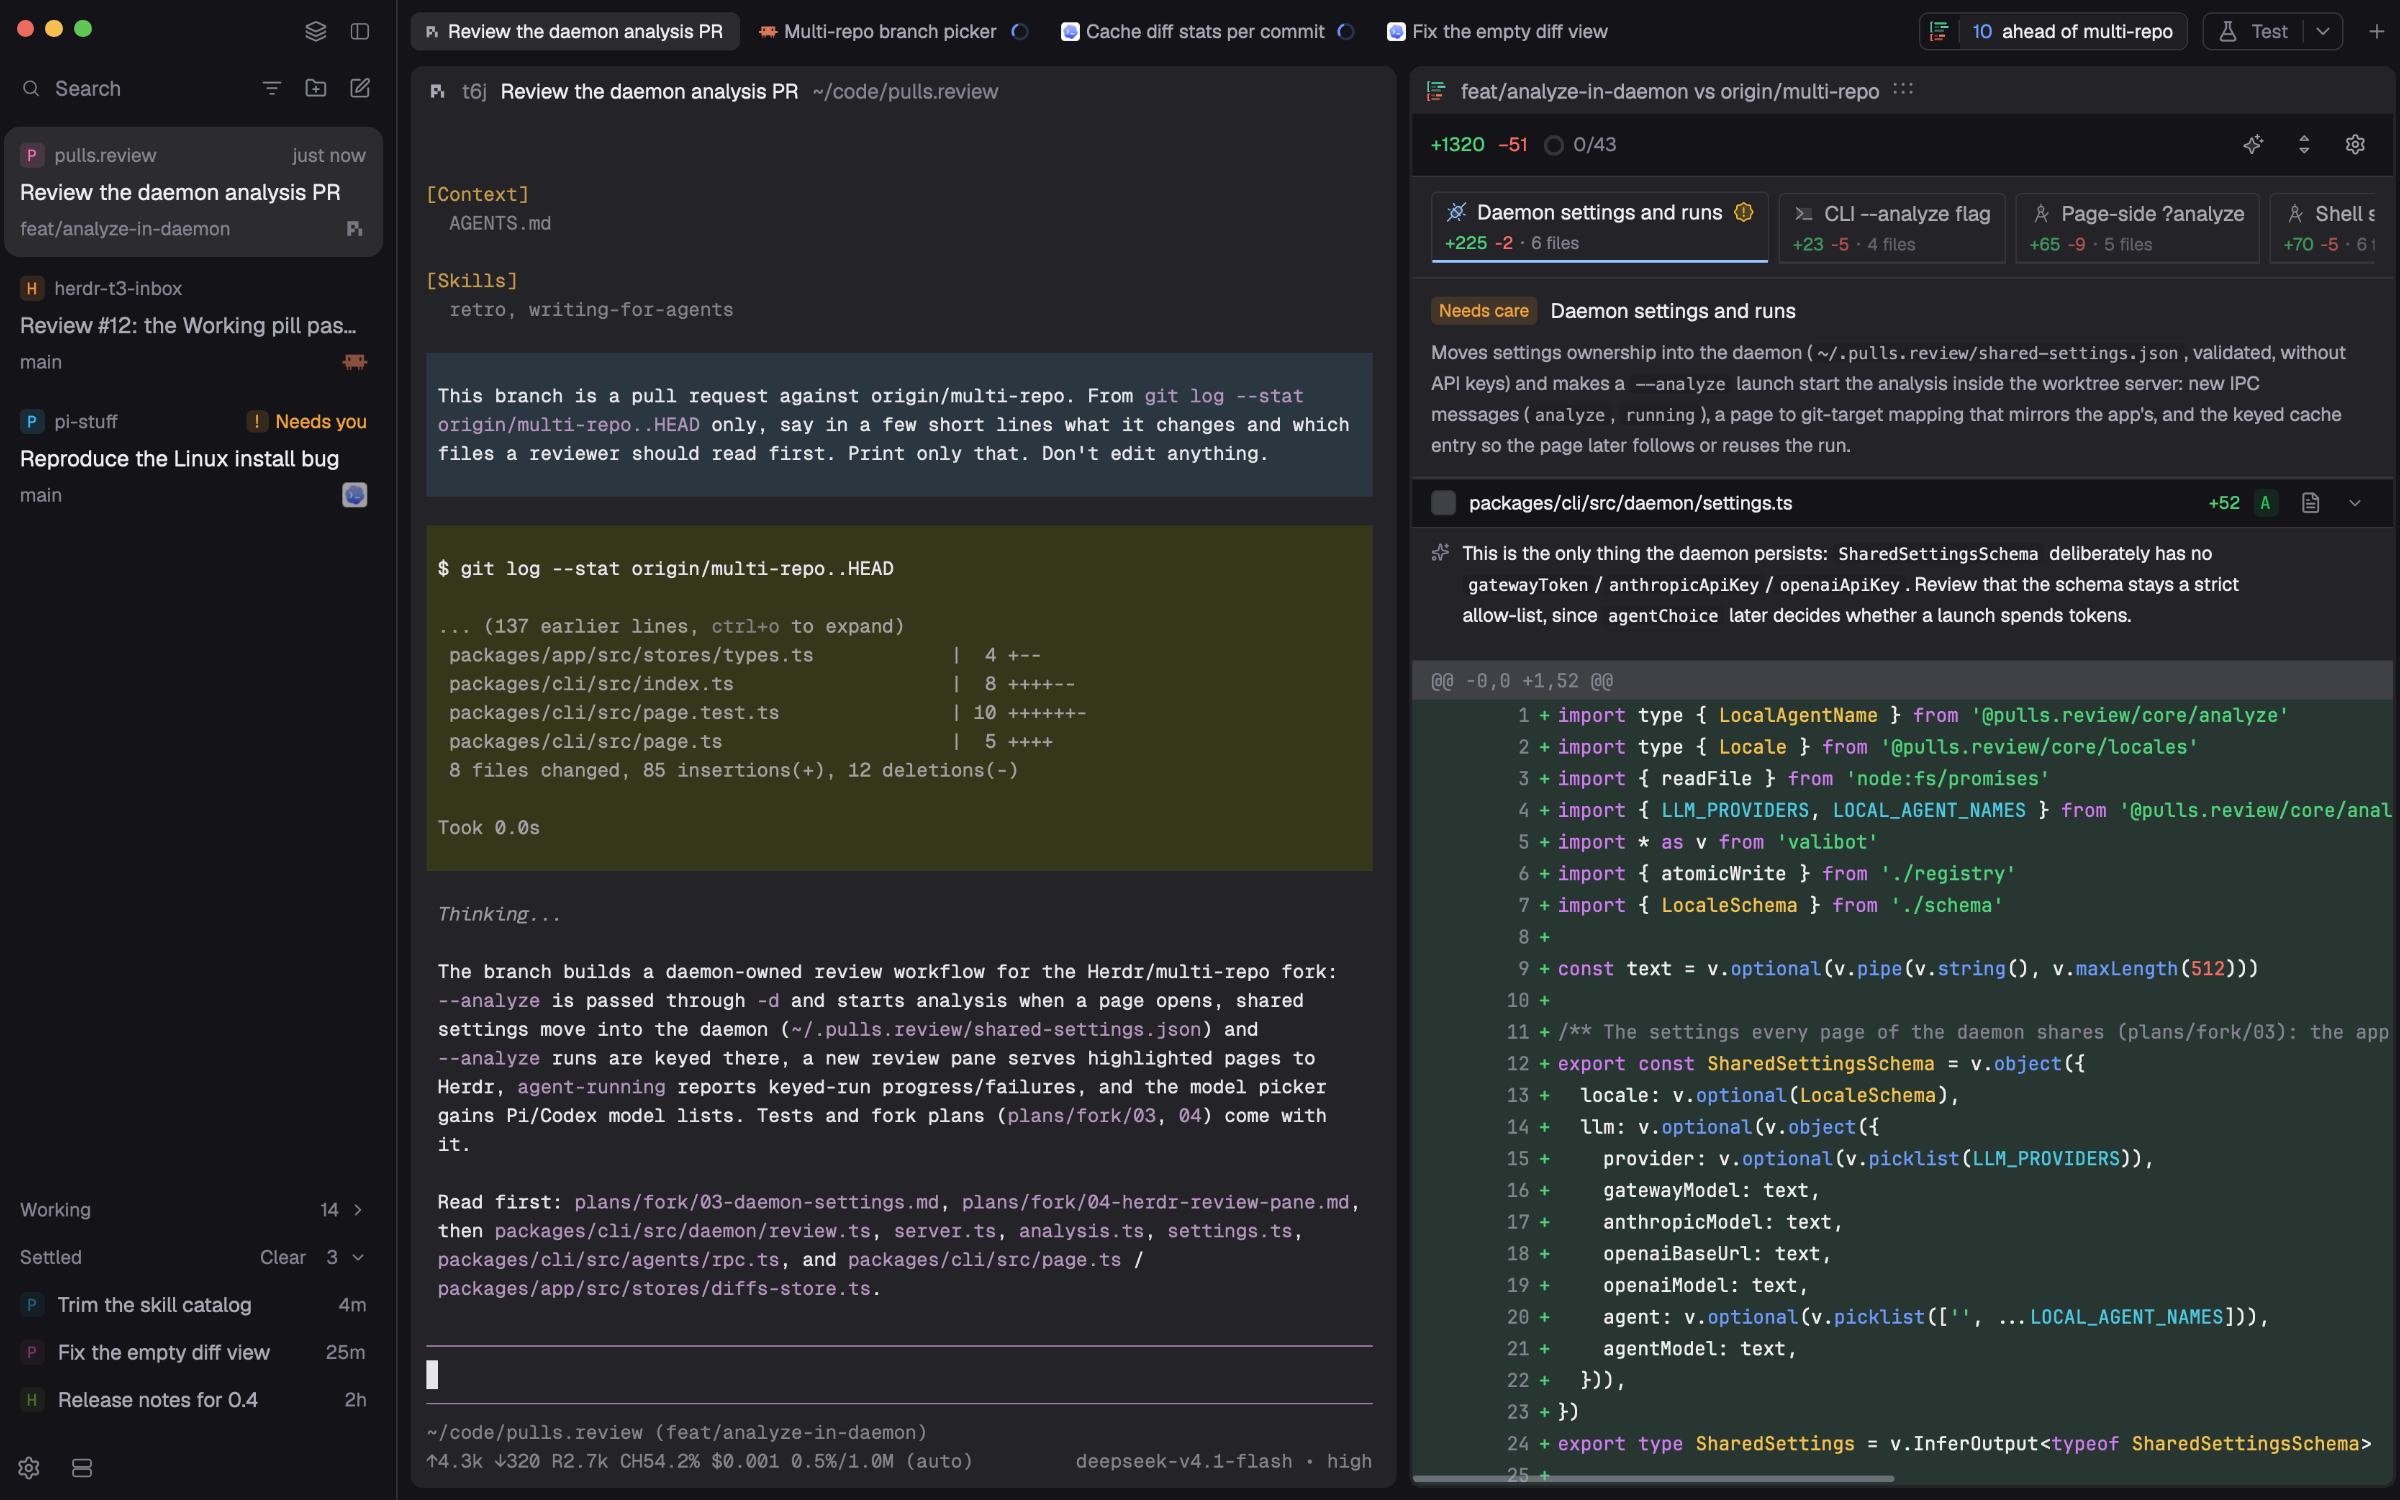
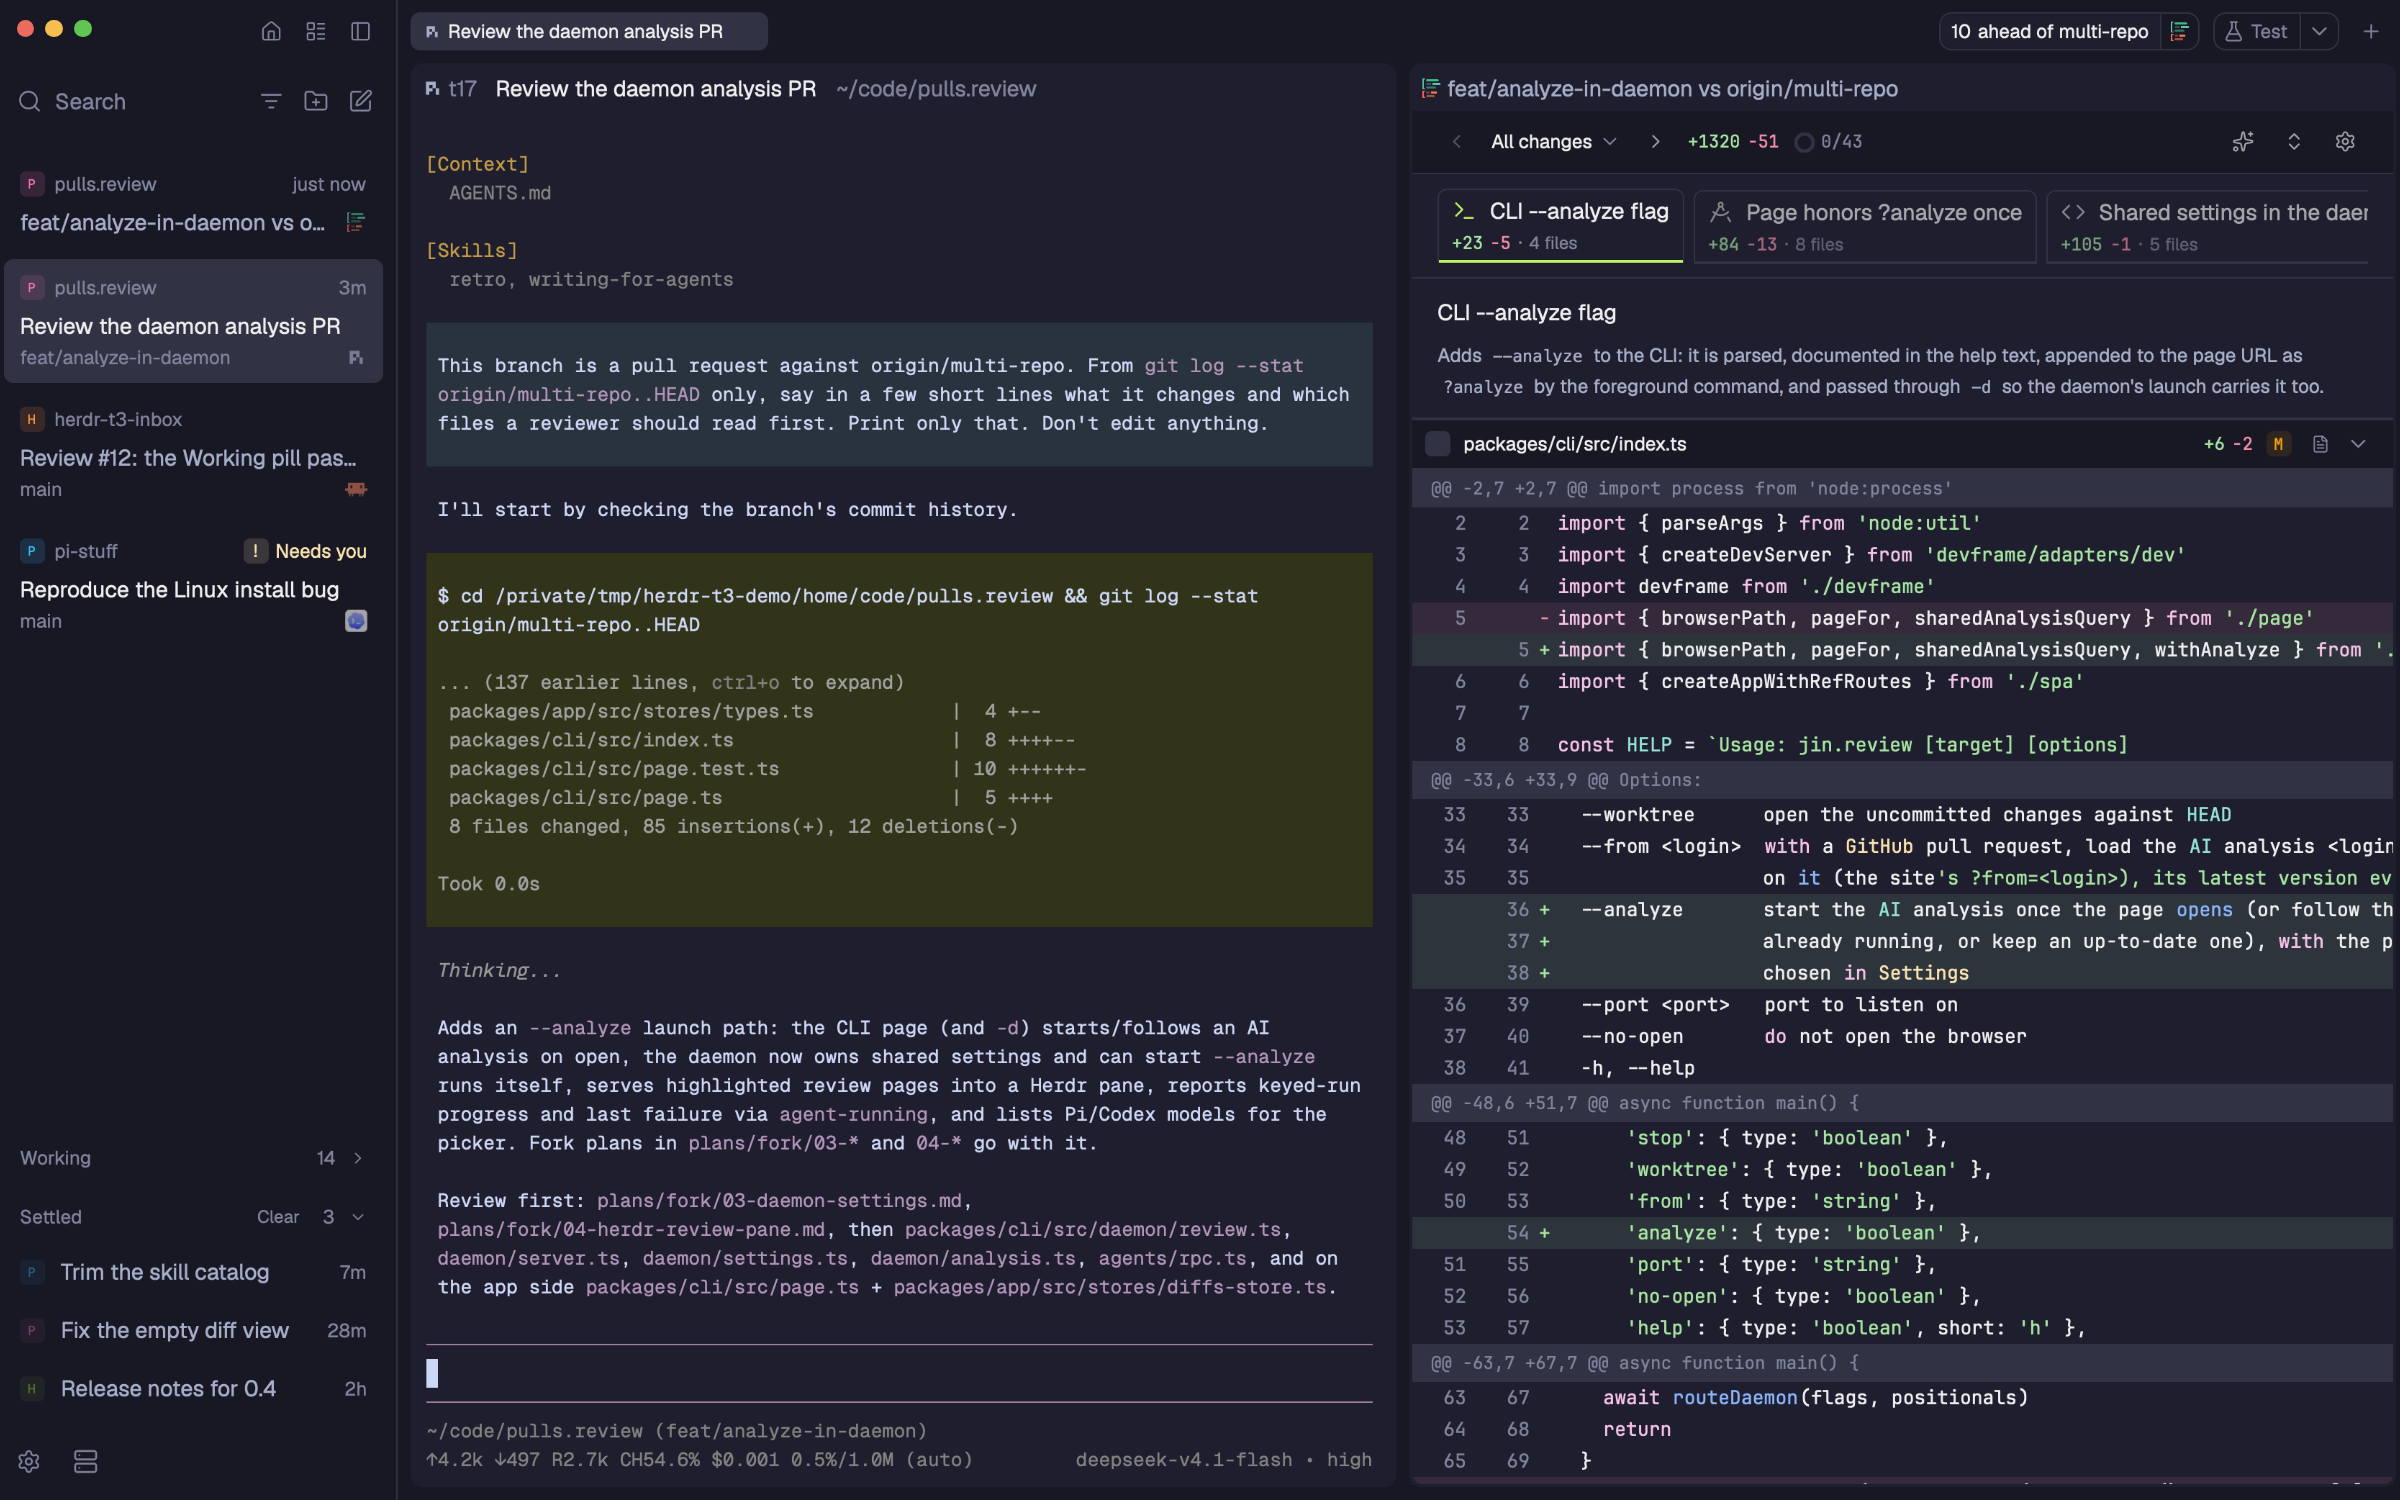
docs: the cover retaken with the layout as T3 draws it
The demo's scripts follow the split: repos.sh patches took() in row-view.js, and the posters' crops and grounds fit the new shots (catppuccin mocha's mantle, the Review pane's unified diff with a group's summary).

diff --git a/scripts/demo/poster.html b/scripts/demo/poster.html
@@ -52,8 +52,8 @@ const posters = {
   inbox() {
     accent("#f0a33a", "#6b93ff", "76%", "34%");
     // Without the title bar's row: a shot has no window buttons, and the toggle would float beside the room they leave.
-    const s = 0.8, left = 690, top = 60, w = 566 * s, h = 630, head = 82, card = 370, foot = 1902, bottom = 90;
-    const side = shot("inbox.png", { w: 566, h: h / s, left, top, cssW: w, cls: "lift", style: "background: #141418;" });
+    const s = 0.8, left = 690, top = 60, w = 566 * s, h = 630, head = 92, card = 410, foot = 1880, bottom = 90;
+    const side = shot("inbox.png", { w: 566, h: h / s, left, top, cssW: w, cls: "lift", style: "background: #181825;" });
     side.style.backgroundImage = "none"; side.style.overflow = "hidden";
     const piece = (y, ph, t) => { const p = document.createElement("div"); p.style.cssText = "position:absolute;left:0;top:" + t + "px;width:" + w + "px;height:" + ph * s + "px;background:url(../inbox.png) 0 " + -y * s + "px / " + W * s + "px " + H * s + "px no-repeat;"; side.append(p); };
     piece(head, card - head, 0);
@@ -65,8 +65,8 @@ const posters = {
   actions() {
     accent("#4fd17a", "#6b93ff", "70%", "30%");
     // The window with the run's tool output cut out of its pane, so it opens on the findings.
-    const s = 1200 / W, top = 300, from = 640, gap = from - 165, cut = 1745, skip = 1830 - 1745;
-    const win = shot("actions.png", { w: W, h: 1400, left: 60, top, cssW: 1200, style: "background: #1d1d22;" });
+    const s = 1200 / W, top = 300, from = 950, gap = from - 165, cut = H, skip = 0;
+    const win = shot("actions.png", { w: W, h: 1400, left: 60, top, cssW: 1200, style: "background: #1e1e2e;" });
     win.style.backgroundImage = "none";
     const piece = (x, y, w, h, l, t) => { const p = document.createElement("div"); p.style.cssText = "position:absolute;left:" + l * s + "px;top:" + t * s + "px;width:" + w * s + "px;height:" + h * s + "px;background:url(../actions.png) " + -x * s + "px " + -y * s + "px / " + W * s + "px " + H * s + "px no-repeat;"; win.append(p); };
     piece(0, 0, W, 165, 0, 0);
@@ -77,17 +77,17 @@ const posters = {
     // The window's buttons, which a shot leaves out.
     ["#ed6a5e", "#f5bf4f", "#61c554"].forEach((c, i) => { const d = document.createElement("div"); d.style.cssText = "position:absolute;left:" + (36 + i * 40) * s + "px;top:" + 28 * s + "px;width:" + 24 * s + "px;height:" + 24 * s + "px;border-radius:50%;background:" + c + ";"; win.append(d); });
     // The bar's control and the menu it opens, larger.
-    shot("actions.png", { x: 3040, y: 12, w: 305, h: 66, left: 910, top: 88, cssW: 240, style: "background-color: #141418;" });
-    shot("actions.png", { x: 2730, y: 90, w: 611, h: 397, left: 730, top: 158, cssW: 420, cls: "lift" });
+    shot("actions.png", { x: 3050, y: 10, w: 300, h: 66, left: 910, top: 88, cssW: 240, style: "background-color: #181825;" });
+    shot("actions.png", { x: 2726, y: 78, w: 620, h: 350, left: 730, top: 158, cssW: 420, cls: "lift" });
     text("div", "kicker", "HERDR T3 · ACTIONS");
     text("h1", "", "Your commands,<br><em>one click away.</em>", "font-size: 68px;");
     text("div", "sub", "Tests, a dev server, a retro over your agents' sessions.", "top: 232px; width: 620px; font-size: 21px;");
   },
   review() {
     accent("#e86bb0", "#8f6bff", "50%", "70%");
-    // One thing to see: the groups the analysis made, over a note it left on the code.
-    shot("review.png", { x: 1150, y: 400, w: 2190, h: 1000, left: 60, top: 372, cssW: 1080 });
-    shot("review.png", { x: 605, y: 258, w: 1565, h: 120, left: 60, top: 268, cssW: 1080, cls: "lift" });
+    // One thing to see: the groups the analysis made, over what it says one of them does and its files.
+    shot("review.png", { x: 600, y: 400, w: 2300, h: 1000, left: 60, top: 352, cssW: 1080 });
+    shot("review.png", { x: 610, y: 255, w: 2068, h: 118, left: 60, top: 268, cssW: 1080, cls: "lift" });
     text("div", "kicker", "HERDR T3 · PULLS.REVIEW");
     text("h1", "", "A 43-file PR,<br><em>sorted by AI.</em>");
   },
